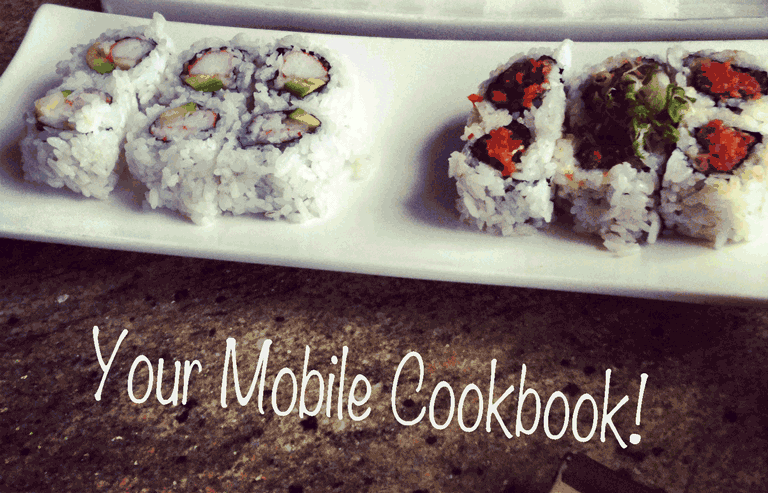
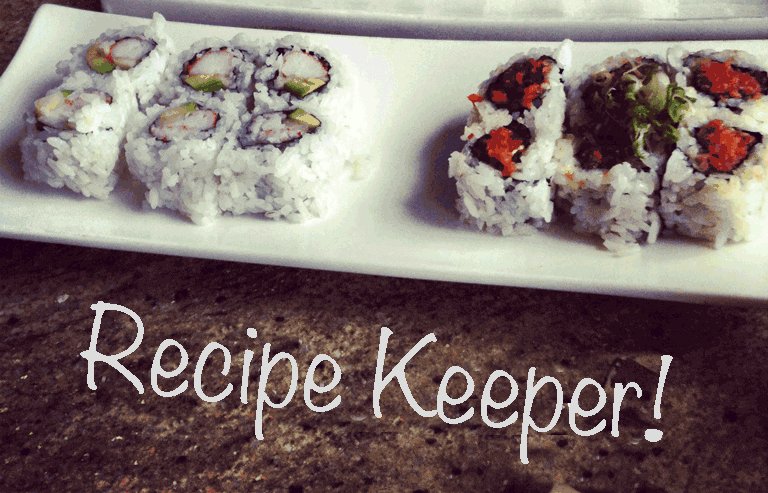
branding

Changed region(s): [[0.0938, 0.6085, 0.875, 1.0]]

diff --git a/MIU/Week4/gold/index.html b/MIU/Week4/gold/index.html
@@ -30,20 +30,15 @@
 	<div data-role="page" id="home">
 
 		
-
 		<!-- content with cta link and image-->
 		<div data-role="content" data-theme="a">
-			<h4>Recipe Keeper!</h4>
+			
 			<p class="my_icon_wrapper2">
 				<img src="images/sushi2.png" height="100" width="270">
 			</p>
 			<a href="#addRecipe" data-role="button" id="addNew" data-icon="plus" data-iconpos="right" data-theme="e">Add a Recipe Now!</a>
-			<a href="#display1"  data-role="button" id="display1" data-icon="star" data-iconpos="right">My Recipe Book</a>
-			
-
+			<a href="#display1"  data-role="button" id="display1" data-icon="star" data-iconpos="right">My Recipe Book</a>		
 		</div>
-
-
 
 
 		<!-- navigation (browse) list -->
@@ -97,6 +92,12 @@
 
 	</div>
 	<div data-role="page" id="display1" data-add-back-btn="true">
+		<div data-role="header" data-position="fixed">
+			<h1>Recipes</h1>
+			<p class="my_icon_wrapperBr">
+				<img src="images/sushi2.png" height="40" width="100">
+			</p>
+		</div>
 
 		<div data-role="content" id="displayTarget">
 			<div data-role="header" data-position="fixed">
@@ -123,7 +124,10 @@
 	<div data-role="page" id="add" data-add-back-btn="true">
 
 		<div data-role="header" data-position="fixed">
-			<h1>Recipe Keeper</h1>
+			<h1>Coming Soon</h1>
+			<p class="my_icon_wrapperBr">
+				<img src="images/sushi2.png" height="40" width="90">
+			</p>
 		</div>
 
 		<div data-role="content">
@@ -148,7 +152,10 @@
 	<div data-role="page" id="byDate" data-add-back-btn="true">
 
 		<div data-role="header" data-position="fixed">
-			<h1>Recipe Keeper</h1>
+			<h1>By Date</h1>
+			<p class="my_icon_wrapperBr">
+				<img src="images/sushi2.png" height="40" width="90">
+			</p>
 		</div>
 
 		<div data-role="content">
@@ -189,9 +196,11 @@
 	<!-- GH-Pages Page-->
 	<div data-role="page" id="git" data-add-back-btn="true" data-theme="a">
 
-		<div data-role="content">
-			<div data-role="header" data-position="fixed">
-			<h3>Versions of<br>Recipe Keeper</h3>
+		<div data-role="header" data-position="fixed">
+			<h1>Pages</h1>
+			<p class="my_icon_wrapperBr">
+				<img src="images/sushi2.png" height="40" width="90">
+			</p>
 		</div>
 			<div class="ui-grid-b">
 				<div class="ui-block-a"><a href="http://jbentley313.github.com/MIU/Week2/gold/index.html"  data-ajax="false"><img src="images/miu2.png"><br>Week 2</a></div>
@@ -217,7 +226,10 @@
 	<div data-role="page" id="chickenCr" data-add-back-btn="true">
 
 		<div data-role="header" data-position="fixed">
-			<h1>Recipe Keeper</h1>
+			<h1>Crecents!</h1>
+			<p class="my_icon_wrapperBr">
+				<img src="images/sushi2.png" height="40" width="90">
+			</p>
 		</div>
 
 		<div data-role="content">
@@ -243,7 +255,10 @@
 	<div data-role="page" id="PepBr" data-add-back-btn="true">
 
 		<div data-role="header" data-position="fixed">
-			<h1>Recipe Keeper</h1>
+			<h1>Bread!</h1>
+			<p class="my_icon_wrapperBr">
+				<img src="images/sushi2.png" height="40" width="90">
+			</p>
 		</div>
 
 		<div data-role="content">
@@ -267,9 +282,11 @@
 
 	<!--Chili Recipe landing page (for now) -->
 	<div data-role="page" id="chili" data-add-back-btn="true">
-
 		<div data-role="header" data-position="fixed">
-			<h1>Recipe Keeper</h1>
+			<h1>Chili!</h1>
+			<p class="my_icon_wrapperBr">
+				<img src="images/sushi2.png" height="40" width="90">
+			</p>
 		</div>
 
 		<div data-role="content">
@@ -295,7 +312,10 @@
 	<div data-role="page" id="ribs" data-add-back-btn="true">
 
 		<div data-role="header" data-position="fixed">
-			<h1>Recipe Keeper</h1>
+			<h1>Ribs!</h1>
+			<p class="my_icon_wrapperBr">
+				<img src="images/sushi2.png" height="40" width="90">
+			</p>
 		</div>
 
 		<div data-role="content">
@@ -324,6 +344,9 @@
 
 	<div data-role="header" data-position="fixed">
 		<h1>Add Recipe</h1>
+			<p class="my_icon_wrapperBr">
+				<img src="images/sushi2.png" height="40" width="90">
+			</p>
 	</div>
 
 	<div data-role="content">
@@ -354,7 +377,7 @@
 			</div>
 
 			<div data-role="fieldcontain">
-				<label for="date">Some Date</label>
+				<label for="date">Date Added</label>
 				<input name="date" id="date" type="date" data-role="datebox" data-options='{"mode": "calbox"}'>	
 			</div>
 

diff --git a/MIU/Week4/gold/js/main.js b/MIU/Week4/gold/js/main.js
@@ -88,8 +88,6 @@ $(document).bind("pageinit", function(){
 		window.location="index.html";
 	}
 	function getData(){
-		// toggleControls("on");
-
 
 		if(localStorage.length === 0){
 			alert("There are no recipes to display! Default Data has been populated!");
@@ -125,6 +123,7 @@ $(document).bind("pageinit", function(){
 
 			makeItemLinks(localStorage.key(i), linksLi); //Create edit and delete buttons for each item
 		} 
+
 	}
 	//get image for category
 	function getImage(catName, makeSublist){
@@ -148,7 +147,7 @@ $(document).bind("pageinit", function(){
 	//Create edit and delete links for eachstored item when disp
 	function makeItemLinks(key, linksLi){
 		var editLink = document.createElement("a");
-		editLink.href = "#";
+		editLink.href = "#addRecipe";
 		editLink.key = key;
 		var editText = "Edit Recipe";
 		editLink.addEventListener("click", editItem);
@@ -163,7 +162,7 @@ $(document).bind("pageinit", function(){
 
 		//add delete single item link
 		var deleteLink = document.createElement("a");
-		deleteLink.href = "#";
+		deleteLink.href = "#display1";
 		deleteLink.key = key;
 		var deleteText = "Delete Recipe";
 		deleteLink.addEventListener("click", deleteItem);
@@ -213,7 +212,7 @@ $(document).bind("pageinit", function(){
 		//so we can use that value when we save the data we edited.
 		editSubmit.addEventListener("click", submit);
 		editSubmit.key = this.key;
-		window.location="index.html#addRecipe";
+		// window.location="index.html#addRecipe";
 
 	};
 
@@ -224,9 +223,8 @@ $(document).bind("pageinit", function(){
 		if(ask){
 			localStorage.removeItem(this.key);
 			alert("Recipe was deleted!");
-			// $( window ).bind( 'load', getData());
-			// window.location.reload();
-			$("display1").listview(refresh());
+			$("#display1").listview("refresh");
+			
 
 		}else{
 			alert("Recipe was NOT deleted.");

diff --git a/MIU/Week4/gold/css/recipeForm.css b/MIU/Week4/gold/css/recipeForm.css
@@ -33,3 +33,11 @@ h4 {
 	margin-top:-10px;
 	margin-bottom:-10px;	
 }
+
+.my_icon_wrapperBr {
+        float: left; 
+        margin-top:-40px;
+        margin-left:83px;
+        margin-bottom:-20px;
+
+}
